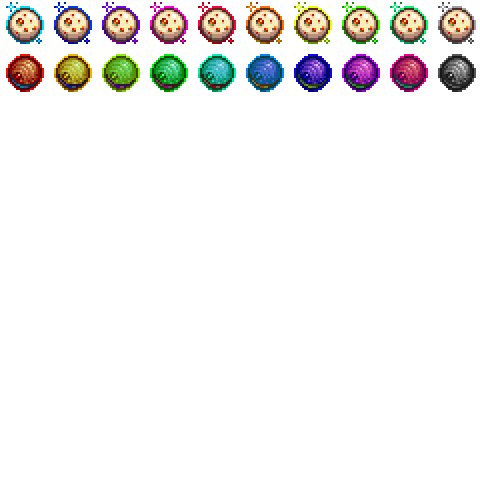
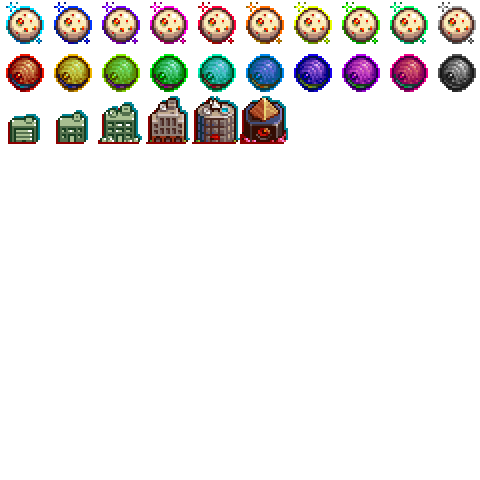
names, flavor texts an autobuy time upgrades

Changed region(s): [[0.0, 0.1875, 0.625, 0.3125]]

diff --git a/main.js b/main.js
@@ -49,28 +49,34 @@ CFC.launch = function() {
 		}
 
 		//Heavenly Upgrades
-		CCSE.NewHeavenlyUpgrade('Cookies from above', 'Contains an assortment of heaven-sent cookies.</b><q>The gods wanted you to try these.</q>', 555000000000000, [25, 12], -725, -1425, ['Box of pastries', 'Box of maybe cookies', 'Box of not cookies']);
-		CCSE.NewHeavenlyUpgrade('Cookies from below', 'Contains an assortment of disgusting cookies.</b><q>Do you really want to taste them?</q>', 555000000000000, [26, 12], -550, -1475, ['Box of pastries', 'Box of maybe cookies', 'Box of not cookies']);
+		CCSE.NewHeavenlyUpgrade('Cookies from above', 'Contains an assortment of heaven-sent cookies.</b>' + (EN?'<q>The gods wanted you to try these.</q>':''), 555000000000000, [25, 12], -725, -1425, ['Box of pastries', 'Box of maybe cookies', 'Box of not cookies']);
+		CCSE.NewHeavenlyUpgrade('Cookies from below', 'Contains an assortment of disgusting cookies.</b>' + (EN?'<q>Do you really want to taste them?</q>':''), 555000000000000, [26, 12], -550, -1475, ['Box of pastries', 'Box of maybe cookies', 'Box of not cookies']);
 		CFC.NewAutoBuyBuilding({building: 'Cursor', name: 'Cursor clicking cursors', q: 'textexttextexttextexttextext.'})
-		CFC.NewAutoBuyBuilding({building: 'Grandma', name: 'name 1', q: 'textexttextexttextexttextext.'})
-		CFC.NewAutoBuyBuilding({building: 'Farm', name: 'name 2', q: 'textexttextexttextexttextext.'})
-		CFC.NewAutoBuyBuilding({building: 'Mine', name: 'name 3', q: 'textexttextexttextexttextext.'})
+		CFC.NewAutoBuyBuilding({building: 'Grandma', name: 'Grandma\'s book of recipe', q: 'textexttextexttextexttextext.'})
+		CFC.NewAutoBuyBuilding({building: 'Farm', name: 'Essence farms', q: 'textexttextexttextexttextext.'})
+		CFC.NewAutoBuyBuilding({building: 'Mine', name: 'Never-ending mineshafts', q: 'You heard of a legend told by your miners about a cursed mineshaft that never stops but who let no one escape it. Dreadful, but a simple teleporting device seems to cancel the so-called curse.'})
 		CFC.NewAutoBuyBuilding({building: 'Factory', name: 'name 4', q: 'textexttextexttextexttextext.'})
 		CFC.NewAutoBuyBuilding({building: 'Bank', name: 'Economic paradox', q: 'You\'ve twisted the economy so efficiently that one cookie is now worth two cookies!.'})
-		CFC.NewAutoBuyBuilding({building: 'Temple', name: 'God of cookies', q: 'Why only exploit ancient temple? Why not worship deities and see if they respond back?.'})
+		CFC.NewAutoBuyBuilding({building: 'Temple', name: 'God of cookies', q: 'Why only exploit ancient temple? Why not worship deities and see if they respond back?'})
 		CFC.NewAutoBuyBuilding({building: 'Wizard tower', name: 'Cookienomicon', q: 'In the darkest of spell books, you learned the ability to spawn life itself. You quickly teached this spell to your wizards so that they can create more wizards.'})
-		CFC.NewAutoBuyBuilding({building: 'Shipment', name: 'name 7', q: 'textexttextexttextexttextext.'})
-		CFC.NewAutoBuyBuilding({building: 'Alchemy lab', name: 'name 8', q: 'textexttextexttextexttextext.'})
-		CFC.NewAutoBuyBuilding({building: 'Portal', name: 'The third portal', q: 'textexttextexttextexttextext.'})
-		CFC.NewAutoBuyBuilding({building: 'Time machine', name: 'Looping timelines', q: 'textexttextexttextexttextext.'})
-		CFC.NewAutoBuyBuilding({building: 'Antimatter condenser', name: 'Cookienium liquid', q: 'textexttextexttextexttextext.'})
+		CFC.NewAutoBuyBuilding({building: 'Shipment', name: 'Alcubierre drive', q: 'Shipments are not travelling space fast enough? Simply move space itself!'})
+		CFC.NewAutoBuyBuilding({building: 'Alchemy lab', name: 'Forbidden arcanes', q: 'textexttextexttextexttextext.'})
+		CFC.NewAutoBuyBuilding({building: 'Portal', name: 'The third portal', q: 'Finally! No more of that boring portal gun of yours, now\'s time for a triple portal gun!'})
+		CFC.NewAutoBuyBuilding({building: 'Time machine', name: 'Breaking causality', q: 'What?! No! Don\'t do that! This will have horrendous consequences! Would you want to erase yourself from time?!'})
+		CFC.NewAutoBuyBuilding({building: 'Antimatter condenser', name: 'Cookienium liquid', q: 'It seems that your antimatter condensers are creating a very strange byproduct, cookienium. This material properties could certainly be very helpful for enhancing other buildings.'})
 		CFC.NewAutoBuyBuilding({building: 'Prism', name: 'Light from nothing', q: 'While tinkering with one of your prism, you found out that you can convert darkness into light! You are litteraly creating light from nothing!'})
 		CFC.NewAutoBuyBuilding({building: 'Chancemaker', name: 'Sudden luck', q: 'Not only are you creating cookies out of sheer luck, you\'re also creating more Chancemakers!'})
 		CFC.NewAutoBuyBuilding({building: 'Fractal engine', name: 'Self-contained fractal engines', q: 'Do you know what happens when you put a fractal engine inside another one? Thank god it doesn\'t destroy the universe, or else whe would\'nt be here.'})
-		CFC.NewAutoBuyBuilding({building: 'Javascript console', name: 'Object.assign({}, building)', q: 'textexttextexttextexttextext.'})
-		CFC.NewAutoBuyBuilding({building: 'Idleverse', name: 'name 9', q: 'textexttextexttextexttextext.'})
-		CFC.NewAutoBuyBuilding({building: 'Cortex baker', name: 'name 10', q: 'textexttextexttextexttextext.'})
-		CFC.NewAutoBuyBuilding({building: 'You', name: 'Clone cloning themselves', q: 'textexttextexttextexttextext.'})
+		CFC.NewAutoBuyBuilding({building: 'Javascript console', name: '"while" statement', q: 'Be careful about "while" statements when coding with the fabric of reality, you don\'t want to trap the universe in an enclosed loop.'})
+		CFC.NewAutoBuyBuilding({building: 'Idleverse', name: 'Space between spaces', q: 'or In-Between, Superflow, The Bleed, whatever it\'s called, no one is in there so it\s all yours now!'})
+		CFC.NewAutoBuyBuilding({building: 'Cortex baker', name: 'Empathy', q: 'textexttextexttextexttextext.'})
+		CFC.NewAutoBuyBuilding({building: 'You', name: 'Clone cloning themselves', q: 'You\'ve teached your clones to clone themselves for more clones. Is it working? Yes! Is productivity off the charts? Absolutely! Are the clones getting more and more mutated? We won\'t answer that.'})
+		CCSE.NewHeavenlyUpgrade('Shopping Spree', 'Automatic purchase time is reduced to 8 seconds' + (EN?'<q>texttexttexttexttext</q>':''), Math.pow(50, 15), [0, 2, CFC.path+"/icons.png"], 750 - Math.sin((21)*0.23+2.3) * 600, 200 + Math.cos((21)*0.23+2.3) * 600, ['Clone cloning themselves'], function() { CFC.autoBuyTime = 8 })
+		CCSE.NewHeavenlyUpgrade('name 1', 'Automatic purchase time is reduced to 6 seconds' + (EN?'<q>texttexttexttexttext</q>':''), Math.pow(100, 15), [1, 2, CFC.path+"/icons.png"], 750 - Math.sin((21)*0.23+2.3) * 500, 200 + Math.cos((21)*0.23+2.3) * 500, ['Shopping Spree'], function() { CFC.autoBuyTime = 6 })
+		CCSE.NewHeavenlyUpgrade('Accelerating acceleration', 'Automatic purchase time is reduced to 4 seconds' + (EN?'<q>texttexttexttexttext</q>':''), Math.pow(250, 15), [2, 2, CFC.path+"/icons.png"], 750 - Math.sin((21)*0.23+2.3) * 400, 200 + Math.cos((21)*0.23+2.3) * 400, ['name 1'], function() { CFC.autoBuyTime = 4 })
+		CCSE.NewHeavenlyUpgrade('name 2', 'Automatic purchase time is reduced to 2 seconds' + (EN?'<q>texttexttexttexttext</q>':''), Math.pow(500, 15), [3, 2, CFC.path+"/icons.png"], 750 - Math.sin((21)*0.23+2.3) * 300, 200 + Math.cos((21)*0.23+2.3) * 300, ['Accelerating acceleration'], function() { CFC.autoBuyTime = 2 })
+		CCSE.NewHeavenlyUpgrade('name 3', 'Automatic purchase time is reduced to 1 seconds' + (EN?'<q>texttexttexttexttext</q>':''), Math.pow(1, 18), [4, 2, CFC.path+"/icons.png"], 750 - Math.sin((21)*0.23+2.3) * 200, 200 + Math.cos((21)*0.23+2.3) * 200, ['name 2'], function() { CFC.autoBuyTime = 1 })
+		CCSE.NewHeavenlyUpgrade('Universe overhaul', 'Buildings are purchased whenever possible' + (EN?'<q>texttexttexttexttext</q>':''), Math.pow(1.5, 18), [5, 2, CFC.path+"/icons.png"], 750 - Math.sin((21)*0.23+2.3) * 100, 200 + Math.cos((21)*0.23+2.3) * 100, ['name 3'], function() { CFC.autoBuyTime = 0 })
 
 		//Cookies Upgrade
 		Game.NewUpgradeCookie({
@@ -252,7 +258,7 @@ CFC.launch = function() {
 		});
 	}
 
-    CFC.save = function() { // fuck
+    CFC.save = function() { // fuck this is annoying
 		let saveFile = {
             AutoBuy: []
 		}
